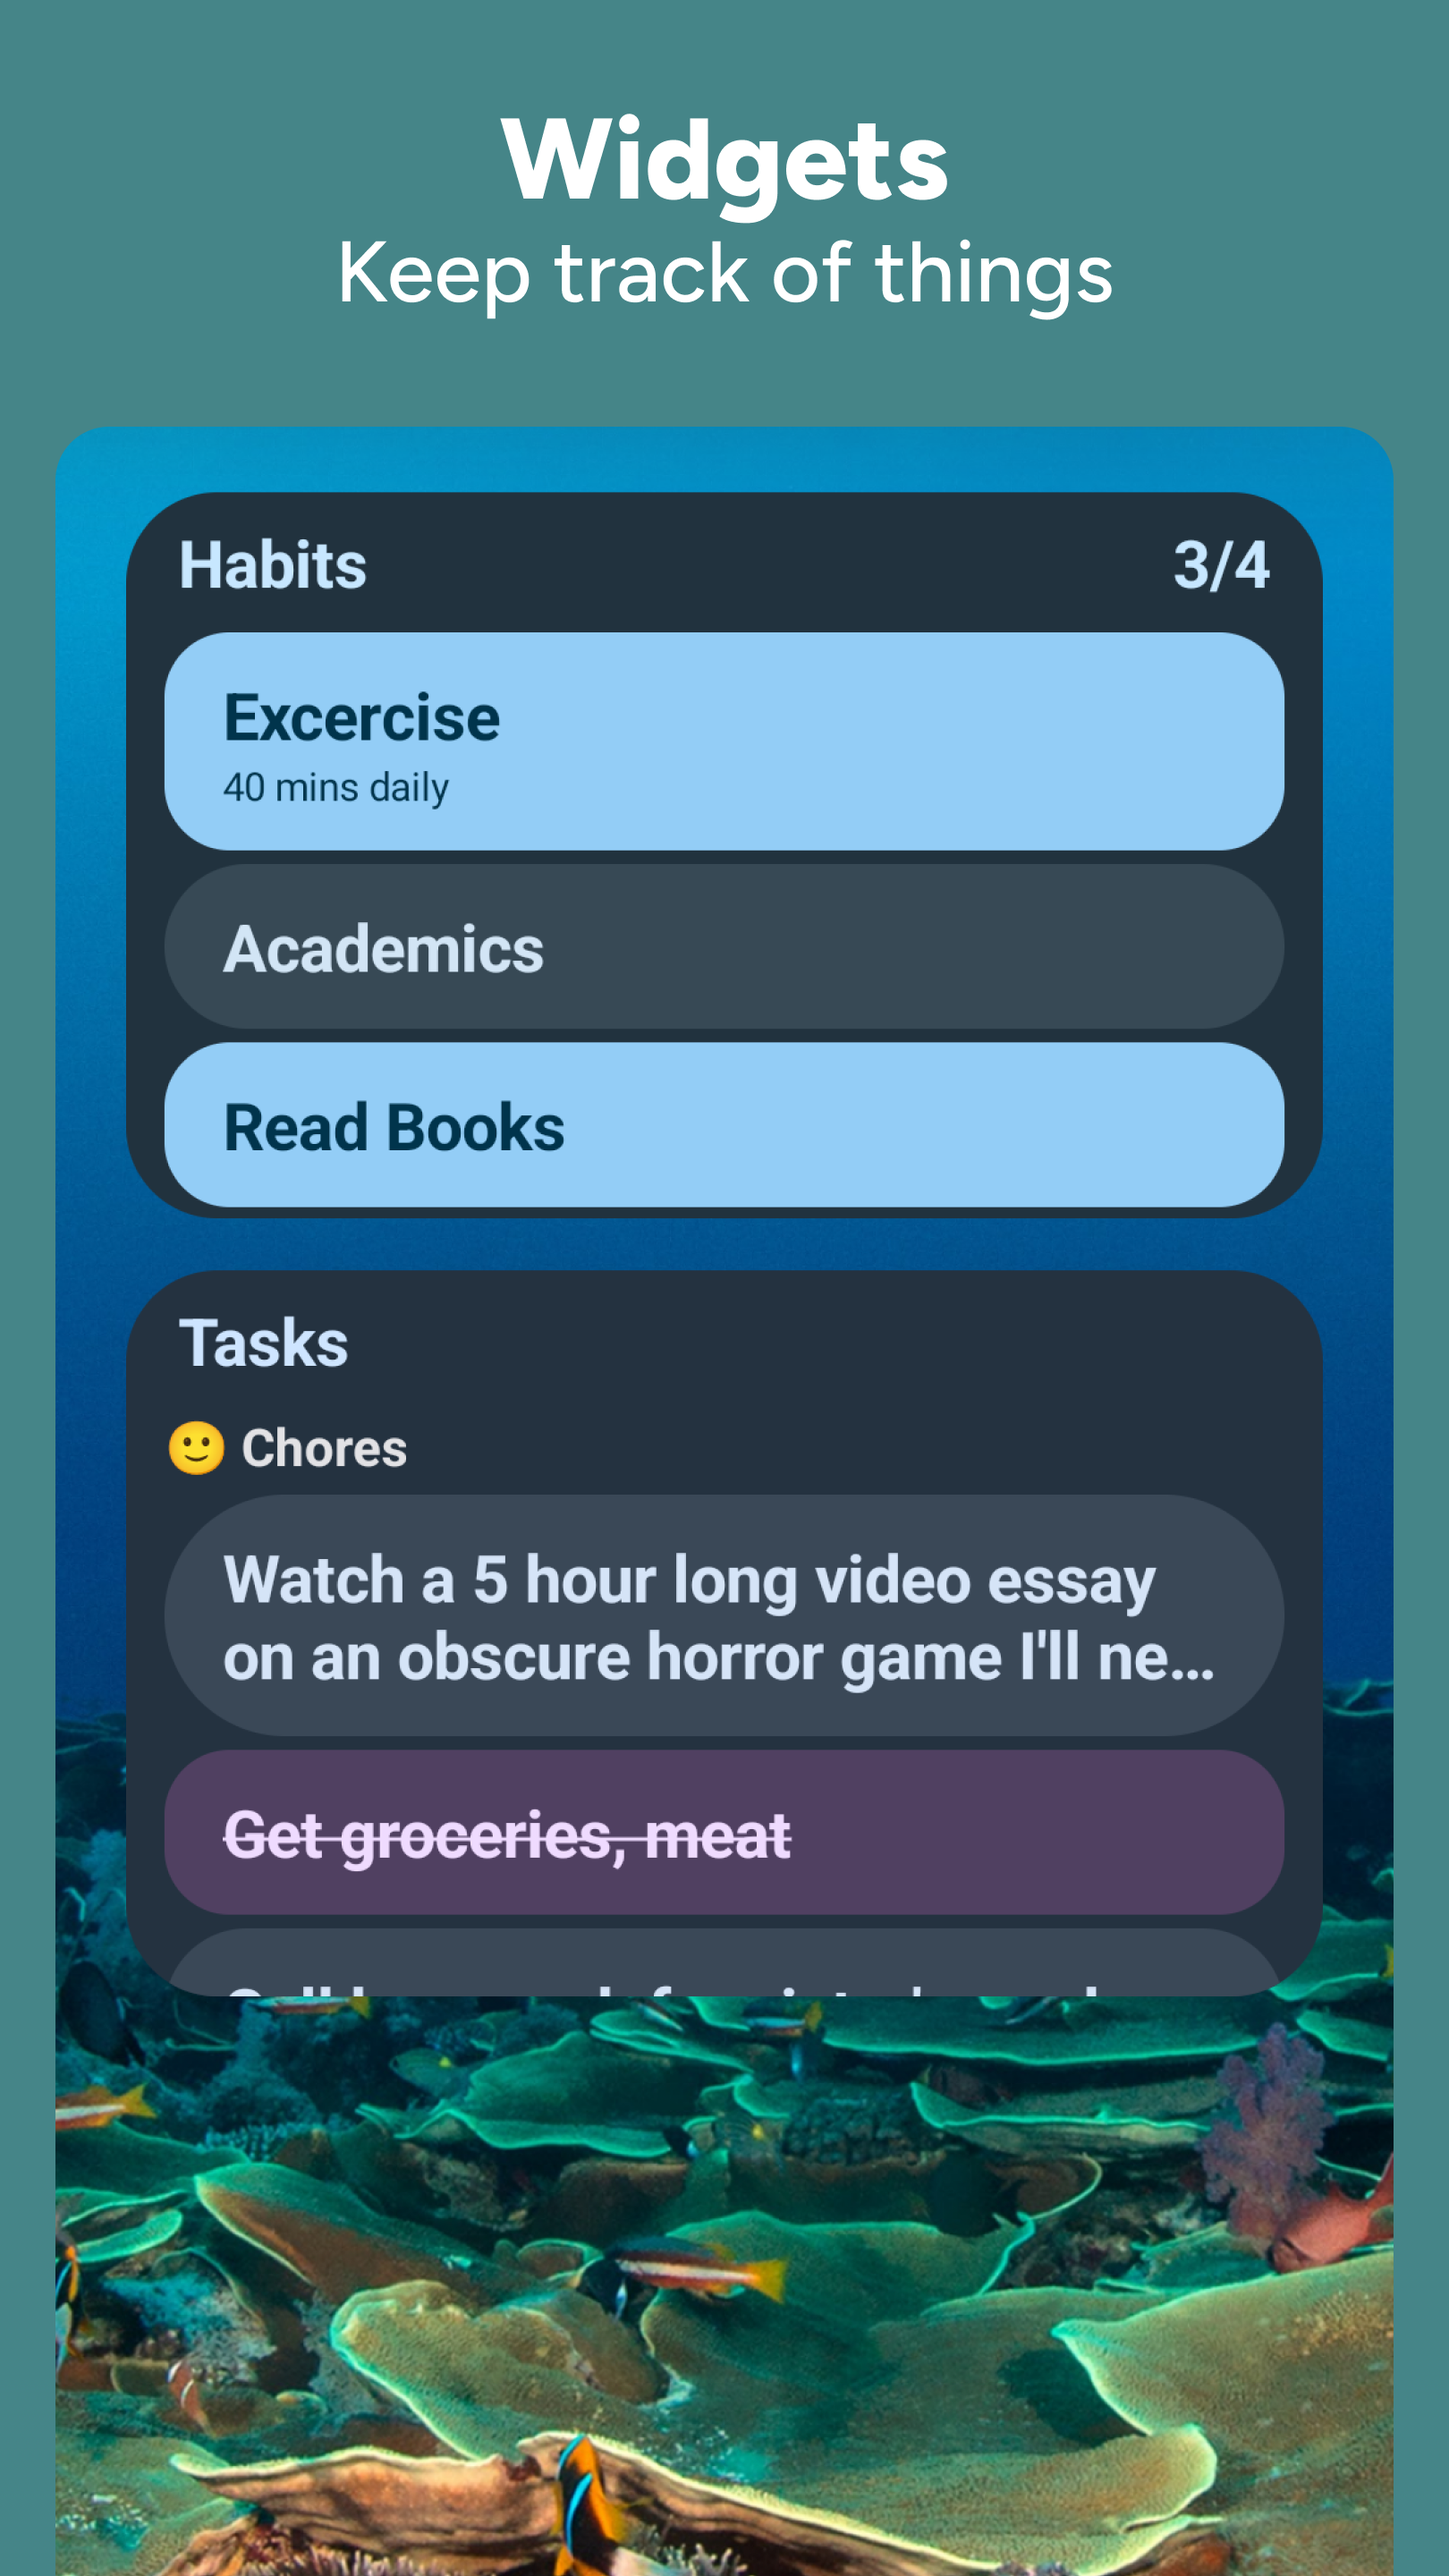
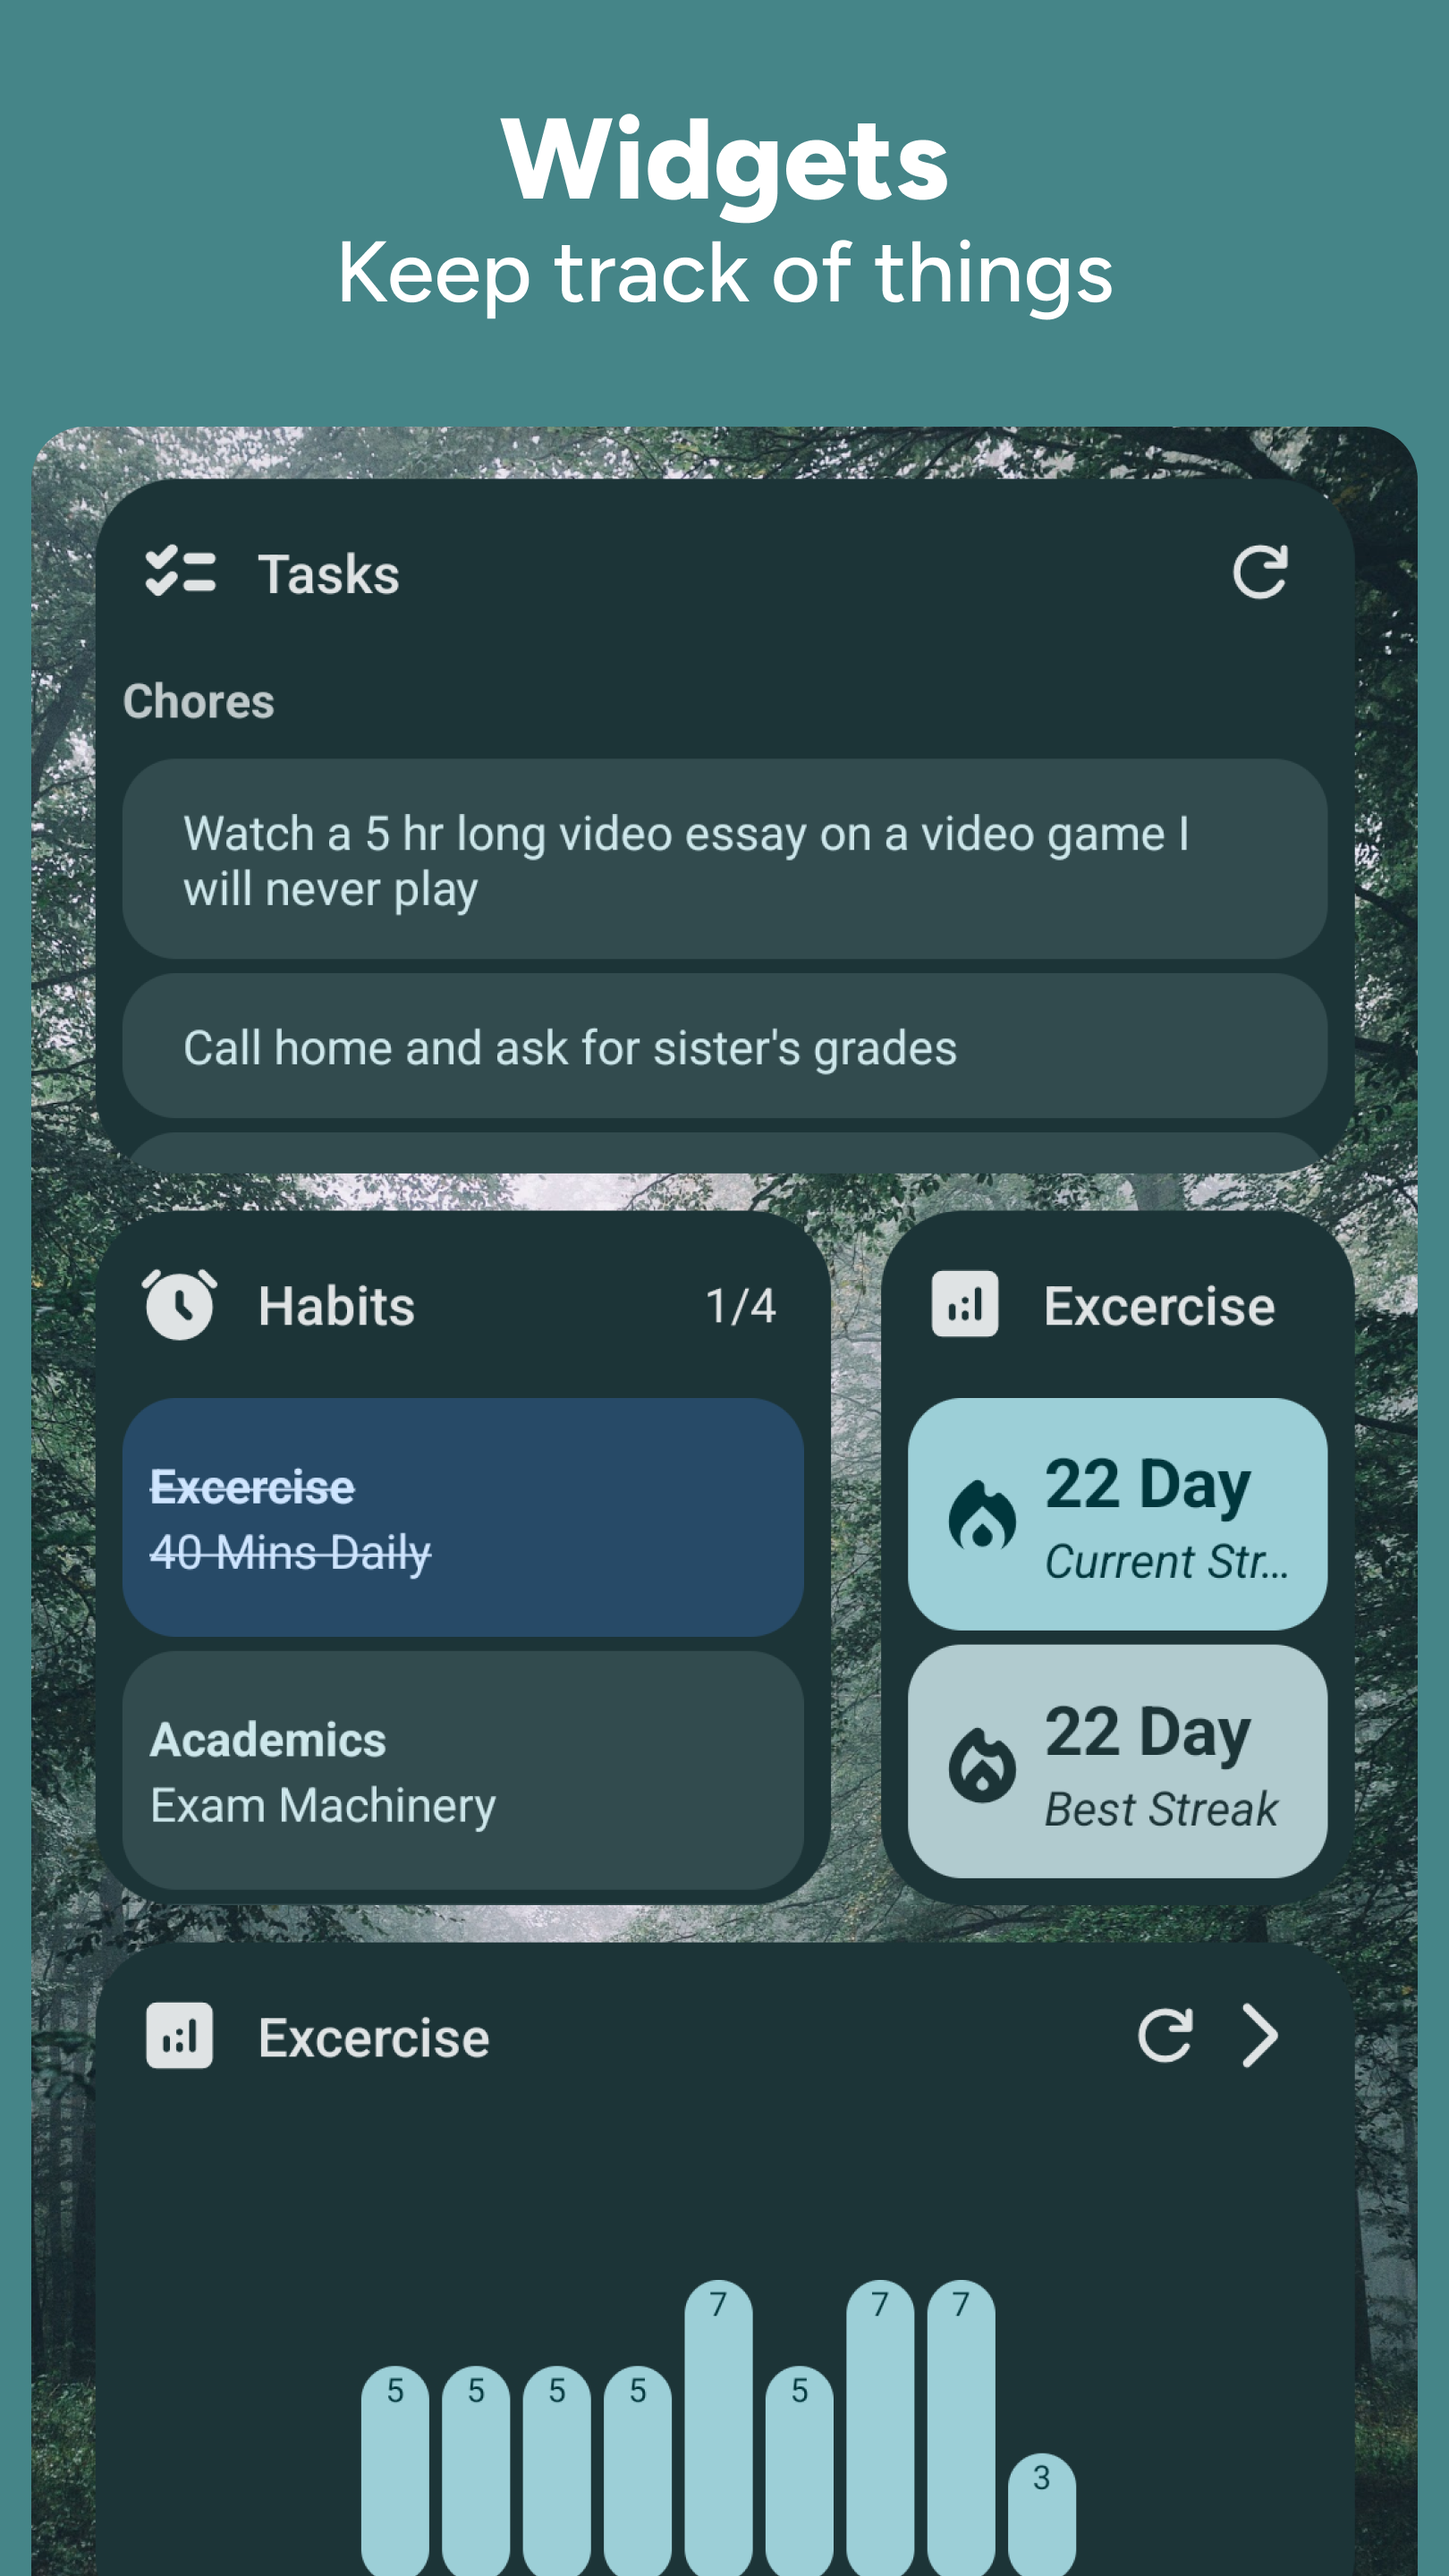
:wrench: tweaks and updated widget screenshot

diff --git a/app/src/main/java/com/shub39/grit/widgets/all_tasks_widget/AllTasksWidget.kt b/app/src/main/java/com/shub39/grit/widgets/all_tasks_widget/AllTasksWidget.kt
@@ -187,7 +187,7 @@ private fun Content(
                         text = taskGroup.key.name,
                         style = TextStyle(
                             fontWeight = FontWeight.Bold,
-                            color = GlanceTheme.colors.onSurface
+                            color = GlanceTheme.colors.onSurfaceVariant
                         )
                     )
                     Spacer(GlanceModifier.height(8.dp))
@@ -253,7 +253,8 @@ private fun Content(
 }
 
 @OptIn(ExperimentalGlancePreviewApi::class)
-@Preview
+@Preview(heightDp = 200, widthDp = 240)
+@Preview(heightDp = 200, widthDp = 300)
 @Composable
 private fun GlancePreview() {
     Content(
@@ -263,7 +264,7 @@ private fun GlancePreview() {
                 name = "Category $it",
                 index = it,
                 color = CategoryColors.GRAY.color
-            ) to (0..10).map { taskId ->
+            ) to (0..1).map { taskId ->
                 Task(
                     id = taskId.toLong(),
                     categoryId = it.toLong(),
